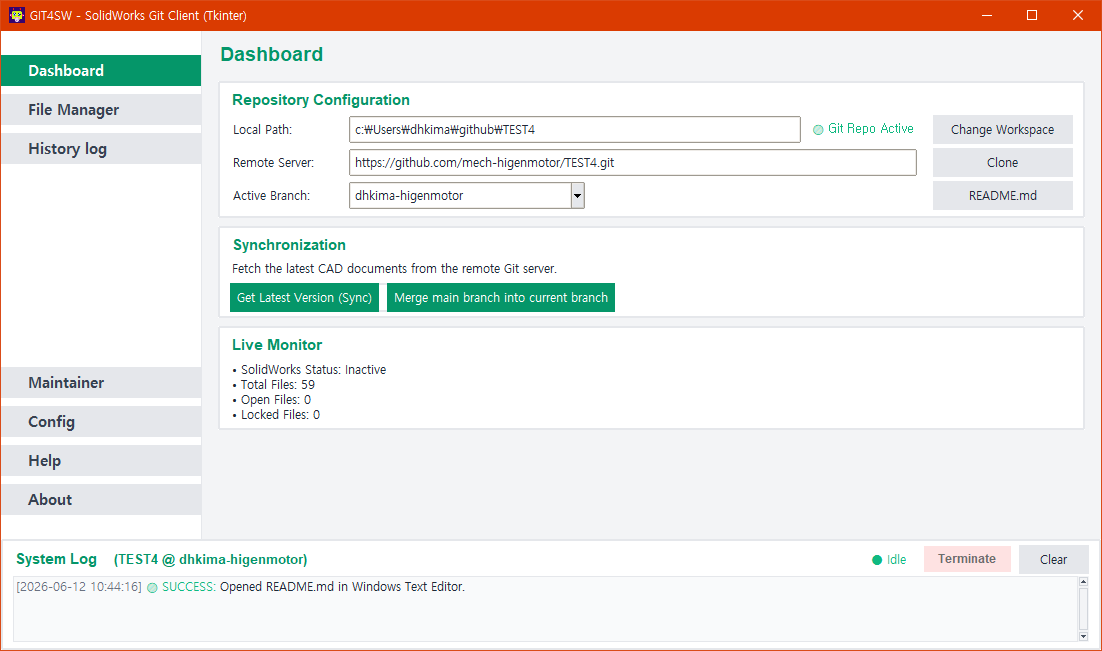
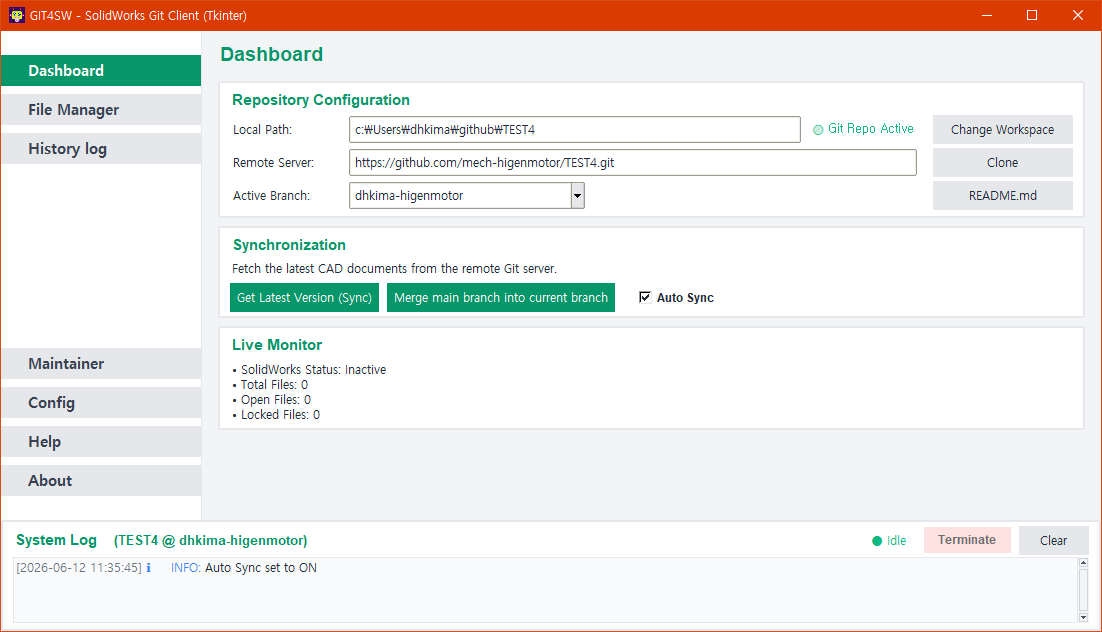
Document auto_sync configuration variable in README.md and help.txt; fix formatting in config.json.template

diff --git a/README.md b/README.md
@@ -82,6 +82,9 @@ SolidWorks로 설계 작업을 진행할 때 도면(`.slddrw`), 파트(`.sldprt`
   - *예*: `C:\Users\dhkima\github`
 * **Organization Name**: 관리자 모드에서 신규 비공개 저장소를 자동 개설할 대상 GitHub 조직(Organization)의 이름입니다.
   - *예*: `mech-higenmotor`
+* **Auto Sync**: 프로그램 구동 시 또는 저장소 스위칭/클론/신규 생성 작업 완료 시 자동으로 원격 동기화(Get Latest Version) 및 메인 브랜치 병합(Merge main branch)을 순차 실행할지 여부를 결정하는 Boolean 설정 변수입니다. 대시보드의 Auto Sync 체크박스로 제어되며 Config 화면의 수동 편집 목록에서는 제외됩니다.
+  - *예*: `true` 또는 `false`
+
 
 ### 4.2 기본 작업 워크플로우
 